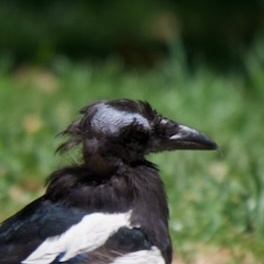
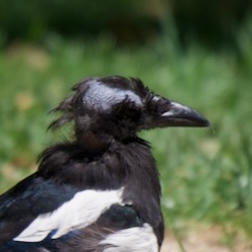
one crop per

diff --git a/beaker-rs/src/main.rs b/beaker-rs/src/main.rs
@@ -636,51 +636,72 @@ fn run_head_detection(config: HeadDetectionConfig) -> Result<usize> {
             None
         };
 
-        // Use the highest confidence detection (first in sorted list) for outputs
-        let best_detection = &sorted_detections[0];
-
-        // Create crop if requested
+        // Create crops if requested (one per detection)
         if config.crop {
-            let crop_filename = if let Some(output_dir) = config.output_dir {
-                let output_dir = Path::new(output_dir);
-                output_dir.join(format!("{input_stem}-crop.{input_ext}"))
-            } else {
-                source_path
-                    .parent()
-                    .unwrap()
-                    .join(format!("{input_stem}-crop.{input_ext}"))
-            };
+            // Determine if we need zero-padding for filenames
+            let use_padding = sorted_detections.len() >= 10;
+            let use_suffix = sorted_detections.len() > 1;
 
-            match create_square_crop(&img, best_detection, &crop_filename, 0.25) {
-                Ok(()) => {
-                    crops_created += 1;
-                    if detections.len() == 1 {
-                        println!("✂  Created crop: {}", crop_filename.display());
+            for (i, detection) in sorted_detections.iter().enumerate() {
+                let crop_filename = if let Some(output_dir) = config.output_dir {
+                    let output_dir = Path::new(output_dir);
+                    if use_suffix {
+                        if use_padding {
+                            output_dir.join(format!("{input_stem}-crop-{:02}.{input_ext}", i + 1))
+                        } else {
+                            output_dir.join(format!("{input_stem}-crop-{}.{input_ext}", i + 1))
+                        }
                     } else {
-                        println!(
-                            "✂  Created crop: {} (used highest confidence: {:.3}, {} total detections)",
-                            crop_filename.display(),
-                            best_detection.confidence,
-                            detections.len()
-                        );
+                        output_dir.join(format!("{input_stem}-crop.{input_ext}"))
                     }
-
-                    // Update only the highest confidence detection with crop path
-                    // Make path relative to TOML file if TOML will be created
-                    let crop_path = if let Some(ref toml_path) = toml_filename {
-                        make_path_relative_to_toml(&crop_filename, toml_path)?
+                } else if use_suffix {
+                    if use_padding {
+                        source_path
+                            .parent()
+                            .unwrap()
+                            .join(format!("{input_stem}-crop-{:02}.{input_ext}", i + 1))
                     } else {
-                        crop_filename.to_string_lossy().to_string()
-                    };
-                    head_detections[0].crop_path = Some(crop_path);
-                }
-                Err(e) => {
-                    eprintln!("❌ Failed to create crop: {e}");
+                        source_path
+                            .parent()
+                            .unwrap()
+                            .join(format!("{input_stem}-crop-{}.{input_ext}", i + 1))
+                    }
+                } else {
+                    source_path
+                        .parent()
+                        .unwrap()
+                        .join(format!("{input_stem}-crop.{input_ext}"))
+                };
+
+                match create_square_crop(&img, detection, &crop_filename, 0.25) {
+                    Ok(()) => {
+                        crops_created += 1;
+                        if sorted_detections.len() == 1 {
+                            println!("✂  Created crop: {}", crop_filename.display());
+                        } else {
+                            println!(
+                                "✂  Created crop {}: {} (confidence: {:.3})",
+                                i + 1,
+                                crop_filename.display(),
+                                detection.confidence
+                            );
+                        }
+
+                        // Update the corresponding detection with crop path
+                        // Make path relative to TOML file if TOML will be created
+                        let crop_path = if let Some(ref toml_path) = toml_filename {
+                            make_path_relative_to_toml(&crop_filename, toml_path)?
+                        } else {
+                            crop_filename.to_string_lossy().to_string()
+                        };
+                        head_detections[i].crop_path = Some(crop_path);
+                    }
+                    Err(e) => {
+                        eprintln!("❌ Failed to create crop {}: {e}", i + 1);
+                    }
                 }
             }
-        }
-
-        // Save bounding box image if requested
+        } // Save bounding box image if requested
         if config.bounding_box {
             let bbox_filename = if let Some(output_dir) = config.output_dir {
                 let output_dir = Path::new(output_dir);
